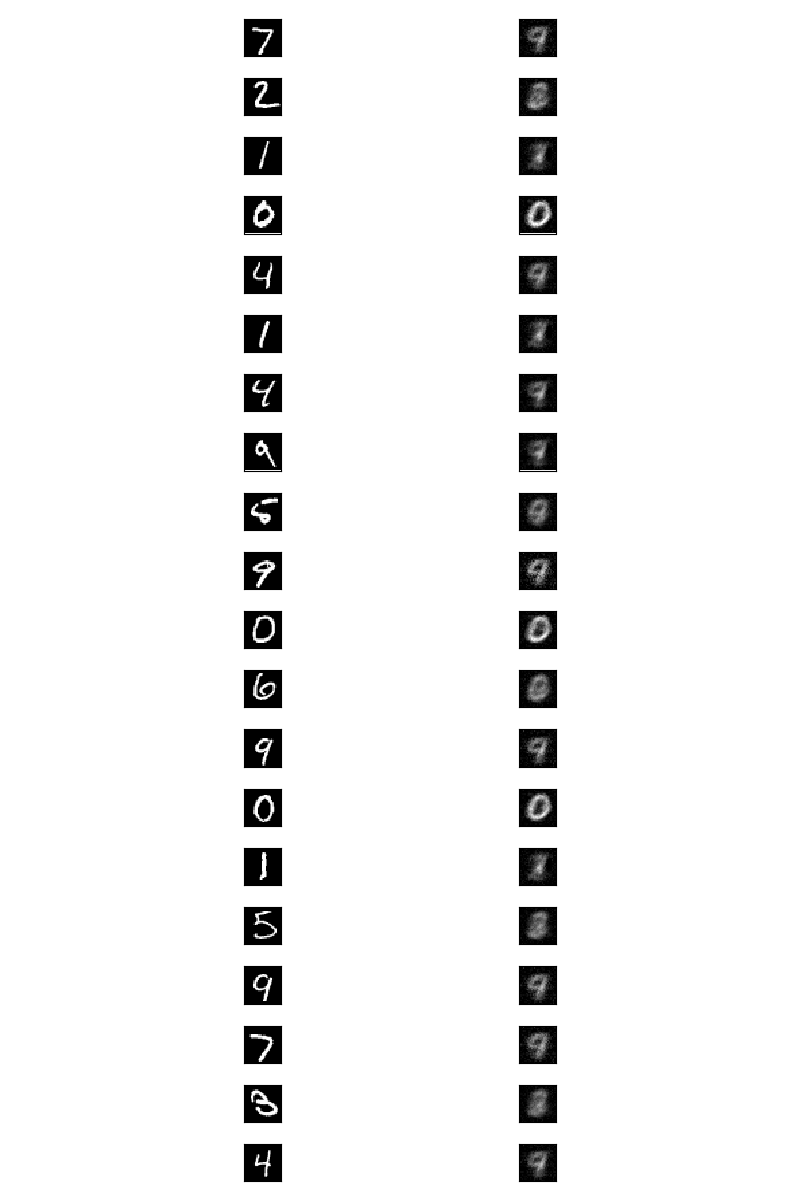
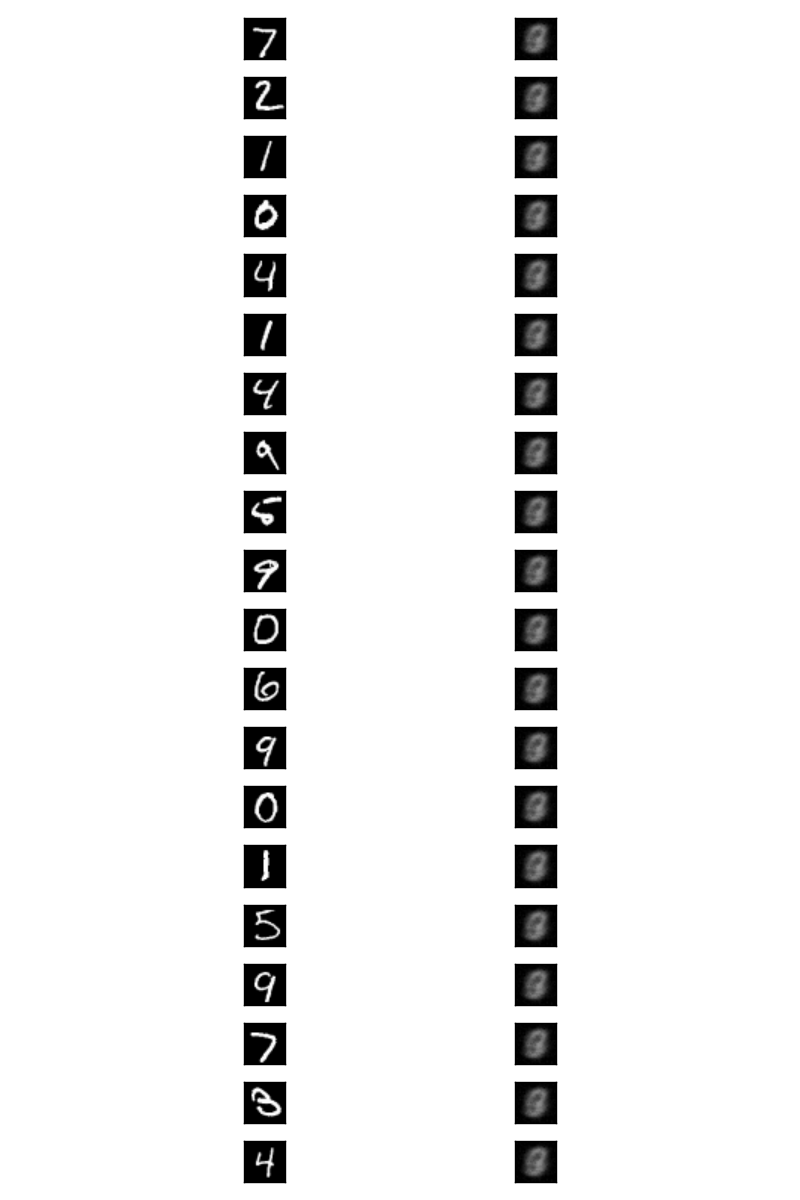
generate unlabeled loss for each class

Changed region(s): [[0.625, 0.0, 0.6875, 0.9867], [0.3125, 0.0, 0.375, 0.9867]]

diff --git a/train_semi_supervised.py b/train_semi_supervised.py
@@ -9,7 +9,7 @@ from tensorflow.examples.tutorials.mnist import input_data
 
 from VAE.classifier import softmax_classifier
 from VAE.semi_supervised.decoder import generator_network
-from VAE.semi_supervised.encoder import recognition_network
+from VAE.semi_supervised.encoder import recognition_network, q_z_1_given_x
 from VAE.utils.MNSIT_prepocess import preprocess_train_data
 from VAE.utils.distributions import compute_ELBO, tf_stdnormal_logpdf
 from VAE.utils.metrics import cls_accuracy, print_test_accuracy, convert_labels_to_cls, plot_images
@@ -98,8 +98,6 @@ def total_lab_loss():
     beta = FLAGS['alpha'] * (1.0 * FLAGS['n_labeled'])
     classifier_loss, y_pred_cls = softmax_classifier(logits=y_lab_logits, y_true=y_lab)
     weighted_classifier_loss = beta * classifier_loss
-    labeled_ELBO = compute_ELBO(x_recon=[x_recon_lab_mu, x_recon_lab_logvar], x=x_lab, y=y_lab,
-                                z=[z_lab, z_lab_mu, z_lab_logvar])
     labeled_KL = tf.scalar_mul(scalar=-1, x=labeled_ELBO)
     labeled_loss = tf.reduce_sum(tf.add(labeled_KL, weighted_classifier_loss))
     tf.summary.scalar('labeled_loss', labeled_loss)
@@ -109,13 +107,10 @@ def total_lab_loss():
 def total_unlab_loss():
     # -KL(q(z|x,y)q(y|x) ~p(x) || p(x,y,z))
     y_ulab = tf.nn.softmax(logits=y_ulab_logits)
-    entropy = tf.einsum('ij,ij->i', y_ulab, tf.log(y_ulab))
-    unlabeled_ELBO = compute_ELBO(x_recon=[x_recon_ulab_mu, x_recon_ulab_logvar], x=x_unlab, y=y_ulab,
-                                  z=[z_ulab, z_ulab_mu, z_ulab_logvar])
-    weighted_ELBO = tf.einsum('ij,ik->i', tf.reshape(unlabeled_ELBO, [tf.shape(unlabeled_ELBO)[0], 1]), y_ulab)
-    print("entropy:{}, y_ulab:{}, weighted_ELBO:{}".format(entropy, y_ulab, weighted_ELBO))
+    weighted_ELBO = tf.reduce_sum(tf.multiply(y_ulab, tf.subtract(unlabeled_ELBO, tf.log(y_ulab))), 1)
+    print("unlabeled_ELBO:{}, weighted_ELBO:{}".format(unlabeled_ELBO, weighted_ELBO))
     unlabeled_KL = tf.scalar_mul(scalar=-1, x=weighted_ELBO)
-    unlabeled_loss = tf.reduce_sum(tf.add(unlabeled_KL, entropy))
+    unlabeled_loss = tf.reduce_sum(unlabeled_KL)
     tf.summary.scalar('unlabeled_loss', unlabeled_loss)
     return unlabeled_loss
 
@@ -161,6 +156,48 @@ def train_test():
     test_reconstruction()
 
 
+def one_label_tensor(label):
+    indices = []
+    values = []
+    for i in range(num_ulab_batch):
+        indices += [[i, label]]
+        values += [1.]
+
+    _y_ulab = tf.sparse_tensor_to_dense(
+        tf.SparseTensor(indices=indices, values=values, dense_shape=[num_ulab_batch, FLAGS['num_classes']]), 0.0)
+    return _y_ulab
+
+
+def unlabeled_model():
+    # Ulabeled
+    z1_ulab = q_z_1_given_x(FLAGS, x_unlab, reuse=True)
+    for label in range(FLAGS['num_classes']):
+        _y_ulab = one_label_tensor(label)
+        z_ulab, z_ulab_mu, z_ulab_logvar, y_ulab_logits = recognition_network(FLAGS, z1_ulab, _y_ulab, reuse=True)
+        x_recon_ulab_mu, x_recon_ulab_logvar = generator_network(FLAGS=FLAGS, y=_y_ulab,
+                                                                 z=z_ulab, reuse=True)
+        _ELBO = tf.expand_dims(
+            compute_ELBO(x_recon=[x_recon_ulab_mu, x_recon_ulab_logvar], x=x_unlab, y=_y_ulab,
+                         z=[z_ulab, z_ulab_mu, z_ulab_logvar])
+            , 1)
+        if label == 0:
+            unlabeled_ELBO = tf.identity(_ELBO)
+        else:
+            unlabeled_ELBO = tf.concat((unlabeled_ELBO, _ELBO), axis=1)  # Decoder Model
+    return unlabeled_ELBO, y_ulab_logits
+
+
+def labeled_model():
+    z1_lab = q_z_1_given_x(FLAGS, x_lab, reuse=True)
+    z_lab, z_lab_mu, z_lab_logvar, y_lab_logits = recognition_network(FLAGS, z1_lab, y_lab, reuse=True)
+    x_recon_lab_mu, x_recon_lab_logvar = generator_network(FLAGS=FLAGS, y=y_lab, z=z_lab,
+                                                           reuse=True)
+    labeled_ELBO = compute_ELBO(x_recon=[x_recon_lab_mu, x_recon_lab_logvar], x=x_lab,
+                                y=y_lab,
+                                z=[z_lab, z_lab_mu, z_lab_logvar])
+    return labeled_ELBO, y_lab_logits, x_recon_lab_mu
+
+
 if __name__ == '__main__':
     # Global Dictionary of Flags
     FLAGS = {
@@ -193,17 +230,10 @@ if __name__ == '__main__':
     x_unlab = tf.placeholder(tf.float32, shape=[None, FLAGS['input_dim']], name='x_unlabeled')
     y_lab = tf.placeholder(tf.float32, shape=[None, FLAGS['num_classes']], name='y_lab')
     y_true_cls = tf.argmax(y_lab, axis=1)
-    # Encoder Model
-    with tf.variable_scope("encoder") as scope:
-        z_lab, z_lab_mu, z_lab_logvar, y_lab_logits = recognition_network(FLAGS, x_lab)
-        scope.reuse_variables()
-        z_ulab, z_ulab_mu, z_ulab_logvar, y_ulab_logits = recognition_network(FLAGS, x_unlab)
 
-    # Decoder Model
-    with tf.variable_scope("decoder") as scope:
-        x_recon_lab_mu, x_recon_lab_logvar = generator_network(FLAGS=FLAGS, y_logits=y_lab_logits, z_latent=z_lab)
-        scope.reuse_variables()
-        x_recon_ulab_mu, x_recon_ulab_logvar = generator_network(FLAGS=FLAGS, y_logits=y_ulab_logits, z_latent=z_ulab)
+    # Labeled
+    labeled_ELBO, y_lab_logits, x_recon_lab_mu = labeled_model()
+    unlabeled_ELBO, y_ulab_logits = unlabeled_model()
     # Loss and Optimization
     cost = (total_lab_loss() + total_unlab_loss() + prior_weights()) / (batch_size * FLAGS['num_batches'])
     # self.cost = ((L_lab_tot + U_tot) * self.num_batches + L_weights) / (

diff --git a/VAE/semi_supervised/encoder.py b/VAE/semi_supervised/encoder.py
@@ -4,59 +4,48 @@ from VAE.utils.distributions import draw_norm
 from VAE.utils.tf_helpers import create_h_weights, create_z_weights, activated_neuron, non_activated_neuron
 
 
-def q_z_1_given_x(FLAGS, x):
-    # Variables
-    w_h1, b_h1 = create_h_weights('h1', 'encoder', [FLAGS['input_dim'], FLAGS['encoder_h_dim']])
-    w_h2, b_h2 = create_h_weights('h2', 'encoder',
-                                  [FLAGS['encoder_h_dim'], FLAGS['encoder_h_dim']])
-    w_mu_z1, w_var_z1, b_mu_z1, b_var_z1 = create_z_weights('z_1', [FLAGS['encoder_h_dim'], FLAGS['latent_dim']])
+def q_z_1_given_x(FLAGS, x, reuse=False):
+    with tf.variable_scope("encoder_z1", reuse=reuse):
+        # Variables
+        w_h1, b_h1 = create_h_weights('h1', 'encoder', [FLAGS['input_dim'], FLAGS['encoder_h_dim']])
 
-    # Hidden layers
-    h1 = activated_neuron(x, w_h1, b_h1)
-    h2 = activated_neuron(h1, w_h2, b_h2)
+        w_mu_z1, w_var_z1, b_mu_z1, b_var_z1 = create_z_weights('z_1', [FLAGS['encoder_h_dim'], FLAGS['latent_dim']])
 
-    # Z1 latent layer mu and var
-    logvar_z1 = non_activated_neuron(h2, w_var_z1, b_var_z1)
-    mu_z1 = non_activated_neuron(h2, w_mu_z1, b_mu_z1)
-    return draw_norm(FLAGS['latent_dim'], mu_z1, logvar_z1)
+        # Hidden layers
+        h1 = activated_neuron(x, w_h1, b_h1)
+
+        # Z1 latent layer mu and var
+        logvar_z1 = non_activated_neuron(h1, w_var_z1, b_var_z1)
+        mu_z1 = non_activated_neuron(h1, w_mu_z1, b_mu_z1)
+        return draw_norm(FLAGS['latent_dim'], mu_z1, logvar_z1)
 
 
-def recognition_network(FLAGS, x):
-    # Variables
-    w_h3_z1, b_h3_z1 = create_h_weights('h3_z1', 'encoder', [FLAGS['latent_dim'], FLAGS['encoder_h_dim']])
-    w_h4_z1, b_h4_z1 = create_h_weights('h4_z1', 'encoder', [FLAGS['encoder_h_dim'], FLAGS['encoder_h_dim']])
+def recognition_network(FLAGS, z1, y, reuse=False):
+    with tf.variable_scope("encoder_z2", reuse=reuse):
+        # Variables
+        w_h1, b_h1 = create_h_weights('h1', 'encoder',
+                                      [FLAGS['latent_dim'] + FLAGS['num_classes'], FLAGS['encoder_h_dim']])
 
-    w_h3_y, b_h3_y = create_h_weights('h3_y', 'encoder', [FLAGS['num_classes'], FLAGS['encoder_h_dim']])
-    w_h4_y, b_h4_y = create_h_weights('h4_y', 'encoder', [FLAGS['encoder_h_dim'], FLAGS['encoder_h_dim']])
+        w_mu_z2, w_var_z2, b_mu_z2, b_var_z2 = create_z_weights('z_2', [FLAGS['encoder_h_dim'], FLAGS['latent_dim']])
 
-    w_h4_mu, b_h4_mu = create_h_weights('h4_mu', 'encoder', [2 * FLAGS['encoder_h_dim'], FLAGS['encoder_h_dim']])
+        # Model
+        y_logits = qy_given_x(z1, FLAGS)
 
-    w_mu_z2, w_var_z2, b_mu_z2, b_var_z2 = create_z_weights('z_2', [FLAGS['encoder_h_dim'], FLAGS['latent_dim']])
-
-    # Model
-    z_1 = q_z_1_given_x(FLAGS, x)
-    y_logits = qy_given_x(z_1, FLAGS)
-
-    # Hidden layers
-    h3_z1 = activated_neuron(z_1, w_h3_z1, b_h3_z1)
-    h4_z1 = activated_neuron(h3_z1, w_h4_z1, b_h4_z1)
-
-    h3_y = activated_neuron(y_logits, w_h3_y, b_h3_y)
-    h4_y = activated_neuron(h3_y, w_h4_y, b_h4_y)
-
-    h4_mu = activated_neuron(tf.concat((h4_y, h4_z1), axis=1), w_h4_mu, b_h4_mu)
-
-    # Z2 latent layer mu and var
-    logvar_z2 = non_activated_neuron(h4_z1, w_var_z2, b_var_z2)
-    mu_z2 = non_activated_neuron(h4_mu, w_mu_z2, b_mu_z2)
-    z2 = draw_norm(FLAGS['latent_dim'], mu_z2, logvar_z2)
-    return z2, mu_z2, logvar_z2, y_logits
+        # Hidden layers
+        h1 = activated_neuron(tf.concat((z1, y), axis=1), w_h1, b_h1)
+        # Z2 latent layer mu and var
+        logvar_z2 = non_activated_neuron(h1, w_var_z2, b_var_z2)
+        mu_z2 = non_activated_neuron(h1, w_mu_z2, b_mu_z2)
+        z2 = draw_norm(FLAGS['latent_dim'], mu_z2, logvar_z2)
+        return z2, mu_z2, logvar_z2, y_logits
 
 
 def qy_given_x(z_1, FLAGS):
     num_classes = FLAGS['num_classes']
-    w_mlp_h1, b_mlp_h1 = create_h_weights('y_h1', 'classifier', [FLAGS['latent_dim'], num_classes])
-    logits = non_activated_neuron(z_1, w_mlp_h1, b_mlp_h1)
+    w_mlp_h1, b_mlp_h1 = create_h_weights('y_h1', 'classifier', [FLAGS['latent_dim'], FLAGS['encoder_h_dim']])
+    w_mlp_h2, b_mlp_h2 = create_h_weights('y_h2', 'classifier', [FLAGS['encoder_h_dim'], num_classes])
+    h1 = activated_neuron(z_1, w_mlp_h1, b_mlp_h1)
+    logits = non_activated_neuron(h1, w_mlp_h2, b_mlp_h2)
     return logits
 
 

diff --git a/VAE/semi_supervised/decoder.py b/VAE/semi_supervised/decoder.py
@@ -1,50 +1,21 @@
 import tensorflow as tf
 
-from VAE.utils.distributions import draw_norm
-from VAE.utils.tf_helpers import create_h_weights, create_z_weights, activated_neuron, non_activated_neuron
+from VAE.utils.tf_helpers import create_h_weights, activated_neuron, non_activated_neuron
 
 
-def generator_network(FLAGS, y_logits, z_latent):
-    # Variables
-    w_h3, b_h3 = create_h_weights('h3', 'decoder', [FLAGS['latent_dim'], FLAGS['decoder_h_dim']])
-    w_h4, b_h4 = create_h_weights('h4', 'decoder', [FLAGS['decoder_h_dim'], FLAGS['decoder_h_dim']])
-    w_mu, b_mu = create_h_weights('mu', 'decoder', [FLAGS['decoder_h_dim'], FLAGS['input_dim']])
-    w_var, b_var = create_h_weights('var', 'decoder', [FLAGS['decoder_h_dim'], FLAGS['input_dim']])
-    # Model
-    # Decoder hidden layer
-    h3 = activated_neuron(pz1_given_z2y(FLAGS=FLAGS, y_logits=y_logits, z_latent_rep=z_latent), w_h3, b_h3)
-    h4 = activated_neuron(h3, w_h4, b_h4)
+def generator_network(FLAGS, y, z, reuse=False):
+    with tf.variable_scope("decoder", reuse=reuse):
+        # Variables
+        w_h3, b_h3 = create_h_weights('h3', 'decoder',
+                                      [FLAGS['latent_dim'] + FLAGS['num_classes'], FLAGS['decoder_h_dim']])
+        w_mu, b_mu = create_h_weights('mu', 'decoder', [FLAGS['decoder_h_dim'], FLAGS['input_dim']])
+        w_var, b_var = create_h_weights('var', 'decoder', [FLAGS['decoder_h_dim'], FLAGS['input_dim']])
 
-    # Reconstruction layer
-    x_mu = non_activated_neuron(h4, w_mu, b_mu)
-    x_logvar = non_activated_neuron(h4, w_var, b_var)
-    tf.summary.image('x_mu', tf.reshape(x_mu[0], [1, 28, 28, 1]))
-    return x_mu, x_logvar
+        # Decoder hidden layer
+        h3 = activated_neuron(tf.concat((y, z), axis=1), w_h3, b_h3)
 
-
-def pz1_given_z2y(FLAGS, y_logits, z_latent_rep):
-    w_h1_z, b_h1_z = create_h_weights('h1_z', 'decoder', [FLAGS['latent_dim'], FLAGS['decoder_h_dim']])
-
-    w_h2_z, b_h2_z = create_h_weights('h2_z', 'decoder', [FLAGS['decoder_h_dim'], FLAGS['decoder_h_dim']])
-
-    w_h1_y, b_h1_y = create_h_weights('h1_y', 'decoder', [FLAGS['num_classes'], FLAGS['decoder_h_dim']])
-    w_h2_y, b_h2_y = create_h_weights('h2_y', 'decoder', [FLAGS['decoder_h_dim'], FLAGS['decoder_h_dim']])
-
-    w_h2_mu, b_h2_mu = create_h_weights('h2_mu', 'decoder', [2 * FLAGS['encoder_h_dim'], FLAGS['encoder_h_dim']])
-
-    w_mu_z1, w_var_z1, b_mu_z1, b_var_z1 = create_z_weights('z_1_decoder',
-                                                            [FLAGS['decoder_h_dim'], FLAGS['latent_dim']])
-    # Model
-    # Decoder hidden layer
-    h1_z = activated_neuron(z_latent_rep, w_h1_z, b_h1_z)
-    h2_z = activated_neuron(h1_z, w_h2_z, b_h2_z)
-
-    h1_y = activated_neuron(y_logits, w_h1_y, b_h1_y)
-    h2_y = activated_neuron(h1_y, w_h2_y, b_h2_y)
-
-    h2_mu = activated_neuron(tf.concat((h2_y, h2_z), axis=1), w_h2_mu, b_h2_mu)
-
-    # Z1 latent layer mu and var
-    logvar_z1 = non_activated_neuron(h2_z, w_var_z1, b_var_z1)
-    mu_z1 = non_activated_neuron(h2_mu, w_mu_z1, b_mu_z1)
-    return draw_norm(FLAGS['latent_dim'], mu_z1, logvar_z1)
+        # Reconstruction layer
+        x_mu = non_activated_neuron(h3, w_mu, b_mu)
+        x_logvar = non_activated_neuron(h3, w_var, b_var)
+        tf.summary.image('x_mu', tf.reshape(x_mu[0], [1, 28, 28, 1]))
+        return x_mu, x_logvar

diff --git a/VAE/utils/distributions.py b/VAE/utils/distributions.py
@@ -26,9 +26,9 @@ def tf_binary_xentropy(x, y, const=1e-10):
 
 
 def draw_norm(dim, mu, logvar):
-    epsilon_encoder = tf.random_normal(tf.shape(dim), name='epsilon')
-    std_encoder_z1 = tf.exp(0.5 * logvar)
-    return mu + tf.multiply(std_encoder_z1, epsilon_encoder)
+    epsilon = tf.random_normal(tf.shape(dim), name='epsilon')
+    std = tf.exp(0.5 * logvar)
+    return tf.add(mu, tf.multiply(std, epsilon))
 
 
 # https://github.com/saemundsson/semisupervised_vae/blob/master/vae.py
